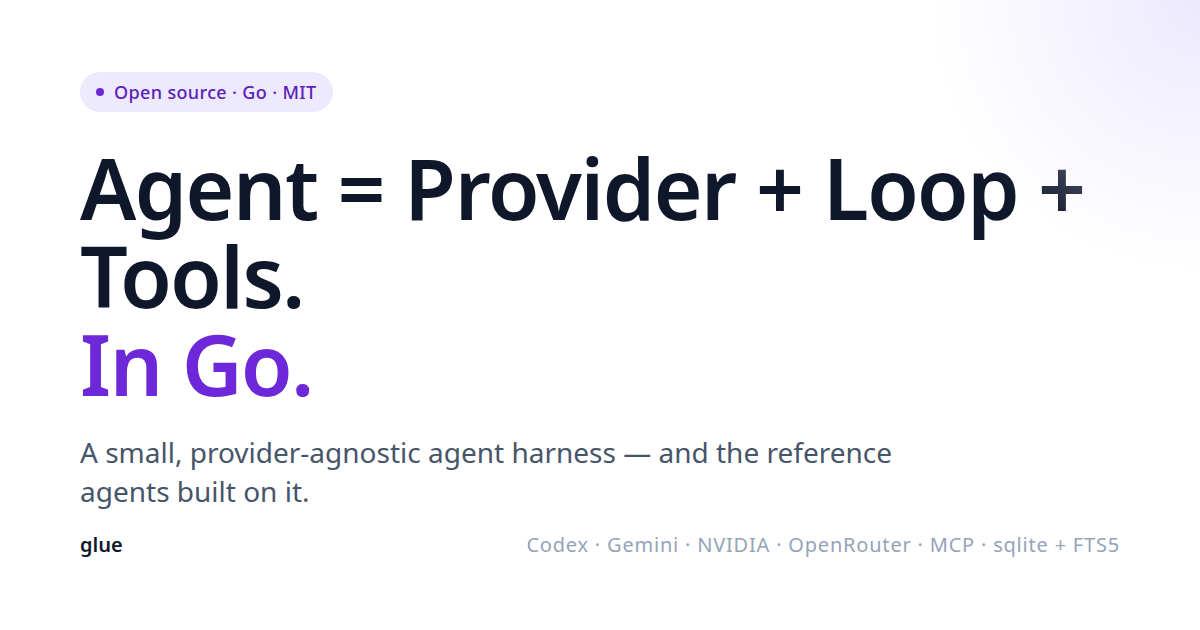
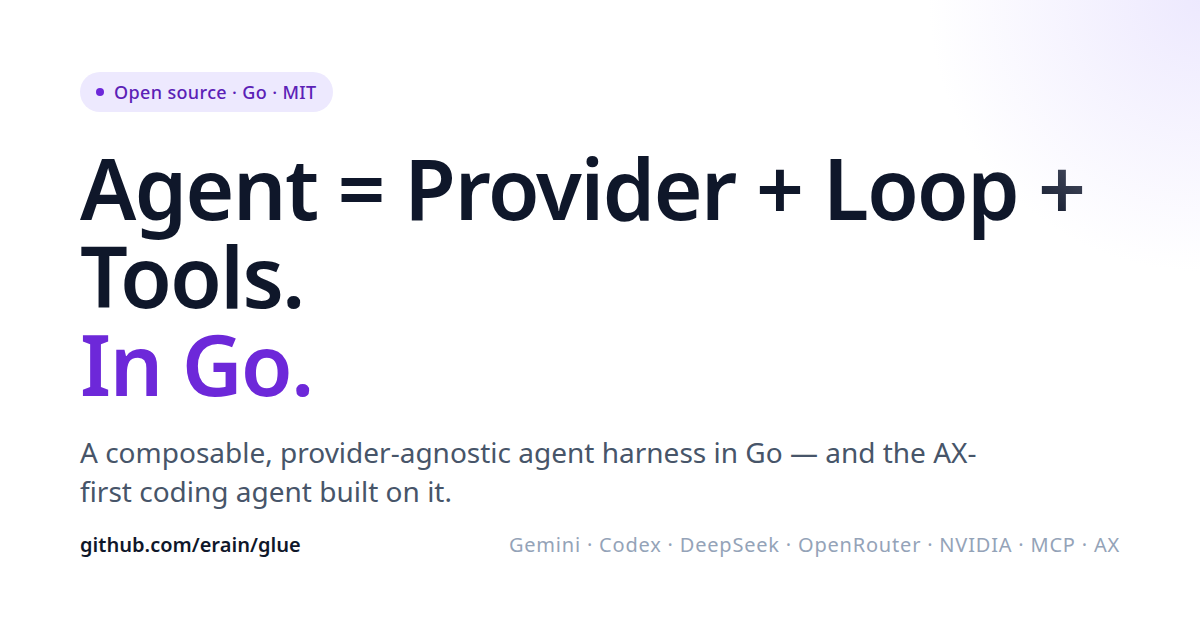
Refresh framework site with typed-tool quickstart, package map, and Phase 4 remote UX (#3)
Update the minimal agent example to include a typed glue.NewTool[Args],
add the Go subpackage reference table to Concepts, balance the 12-card
capabilities grid with token-aware compaction and AX remote jobs, update
the coding-agent card and documentation links to match the new docs/
index and Phase 4 remote capabilities, and regenerate public/og.png.

Changed region(s): [[0.0617, 0.6937, 0.8017, 0.8143], [0.4317, 0.8444, 0.9558, 0.8746], [0.0617, 0.8444, 0.2467, 0.8746]]

diff --git a/src/styles/global.css b/src/styles/global.css
@@ -100,3 +100,37 @@ section[id] { scroll-margin-top: 5rem; }
 /* Let cards shrink to their grid column; long code scrolls inside the card. */
 .cap-card { min-width: 0; }
 .cap-card pre { overflow-x: auto; }
+
+/* Subpackage table. */
+.pkg-table {
+  width: 100%;
+  border-collapse: collapse;
+  font-size: 0.9rem;
+  margin-top: 1rem;
+  border: 1px solid var(--color-line);
+  border-radius: 10px;
+  overflow: hidden;
+}
+.pkg-table th {
+  text-align: left;
+  font-size: 0.75rem;
+  letter-spacing: 0.05em;
+  text-transform: uppercase;
+  color: var(--color-ink-muted);
+  background: var(--color-line-soft);
+  padding: 0.6rem 0.875rem;
+  border-bottom: 1px solid var(--color-line);
+}
+.pkg-table td {
+  padding: 0.65rem 0.875rem;
+  border-bottom: 1px solid var(--color-line);
+  vertical-align: top;
+  color: var(--color-ink-soft);
+  line-height: 1.5;
+}
+.pkg-table tr:last-child td {
+  border-bottom: none;
+}
+.pkg-table td:first-child {
+  white-space: nowrap;
+}

diff --git a/scripts/og.html b/scripts/og.html
@@ -101,14 +101,14 @@
       <div class="chip"><span class="dot"></span>Open source · Go · MIT</div>
       <h1>Agent = Provider + Loop + Tools.<br><span class="accent">In Go.</span></h1>
       <p class="lede">
-        A small, provider-agnostic agent harness — and the reference
-        agents built on it.
+        A composable, provider-agnostic agent harness in Go — and the
+        AX-first coding agent built on it.
       </p>
     </div>
     <div></div>
     <div class="footer">
-      <div class="brand">glue</div>
-      <div class="stack">Codex · Gemini · NVIDIA · OpenRouter · MCP · sqlite + FTS5</div>
+      <div class="brand">github.com/erain/glue</div>
+      <div class="stack">Gemini · Codex · DeepSeek · OpenRouter · NVIDIA · MCP · AX</div>
     </div>
   </div>
 </body>
